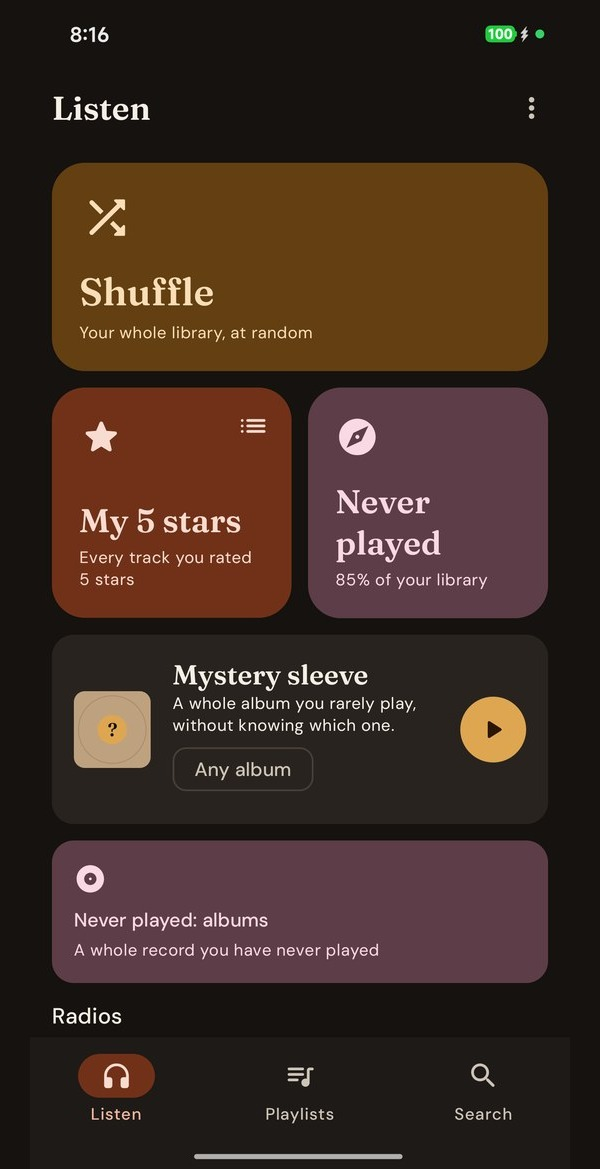
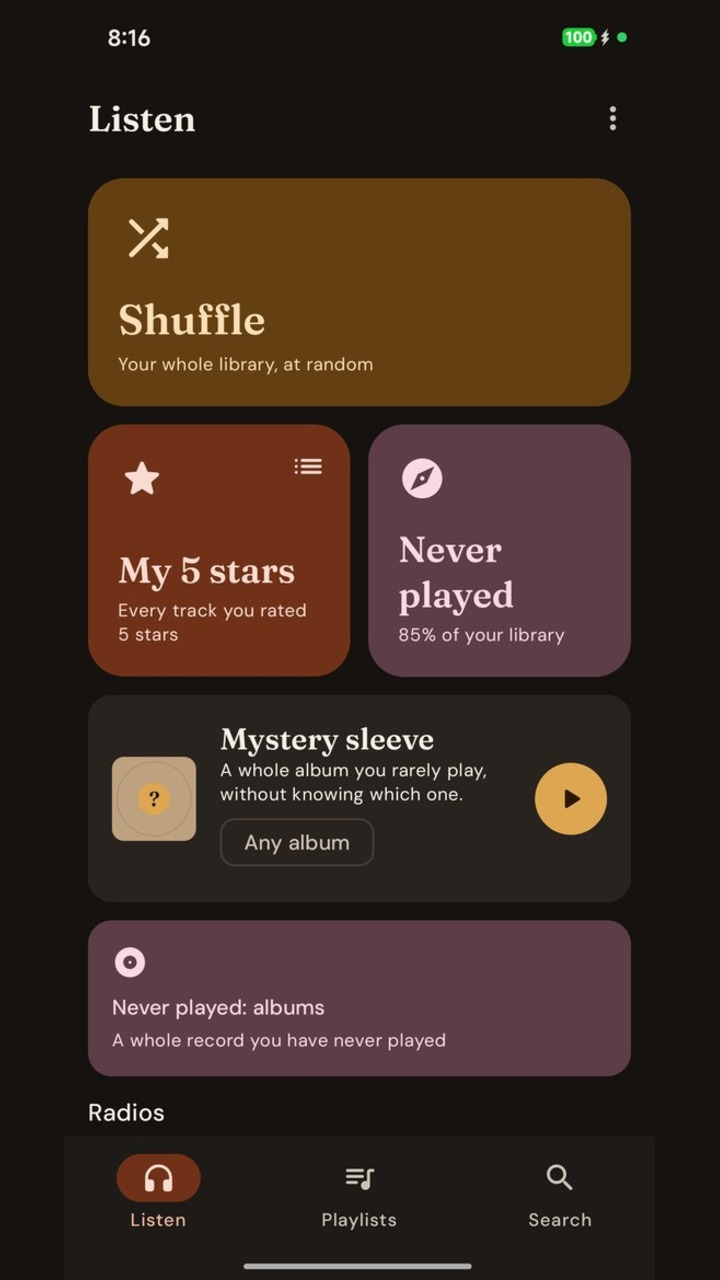
docs: pad the store screenshots to 9:16
Play now requires phone screenshots in 16:9 or 9:16.

diff --git a/docs/store-listing.md b/docs/store-listing.md
@@ -3,7 +3,7 @@
 Ready-to-paste text for the Google Play Console store listing. Character limits:
 **title ≤ 30**, **short description ≤ 80**, **full description ≤ 4000**.
 Assets: [`store-assets/`](store-assets) (icon 512, feature graphic 1024×500,
-phone screenshots padded to a 2:1 ratio).
+phone screenshots padded to 9:16 (720×1280)).
 
 ---
 
